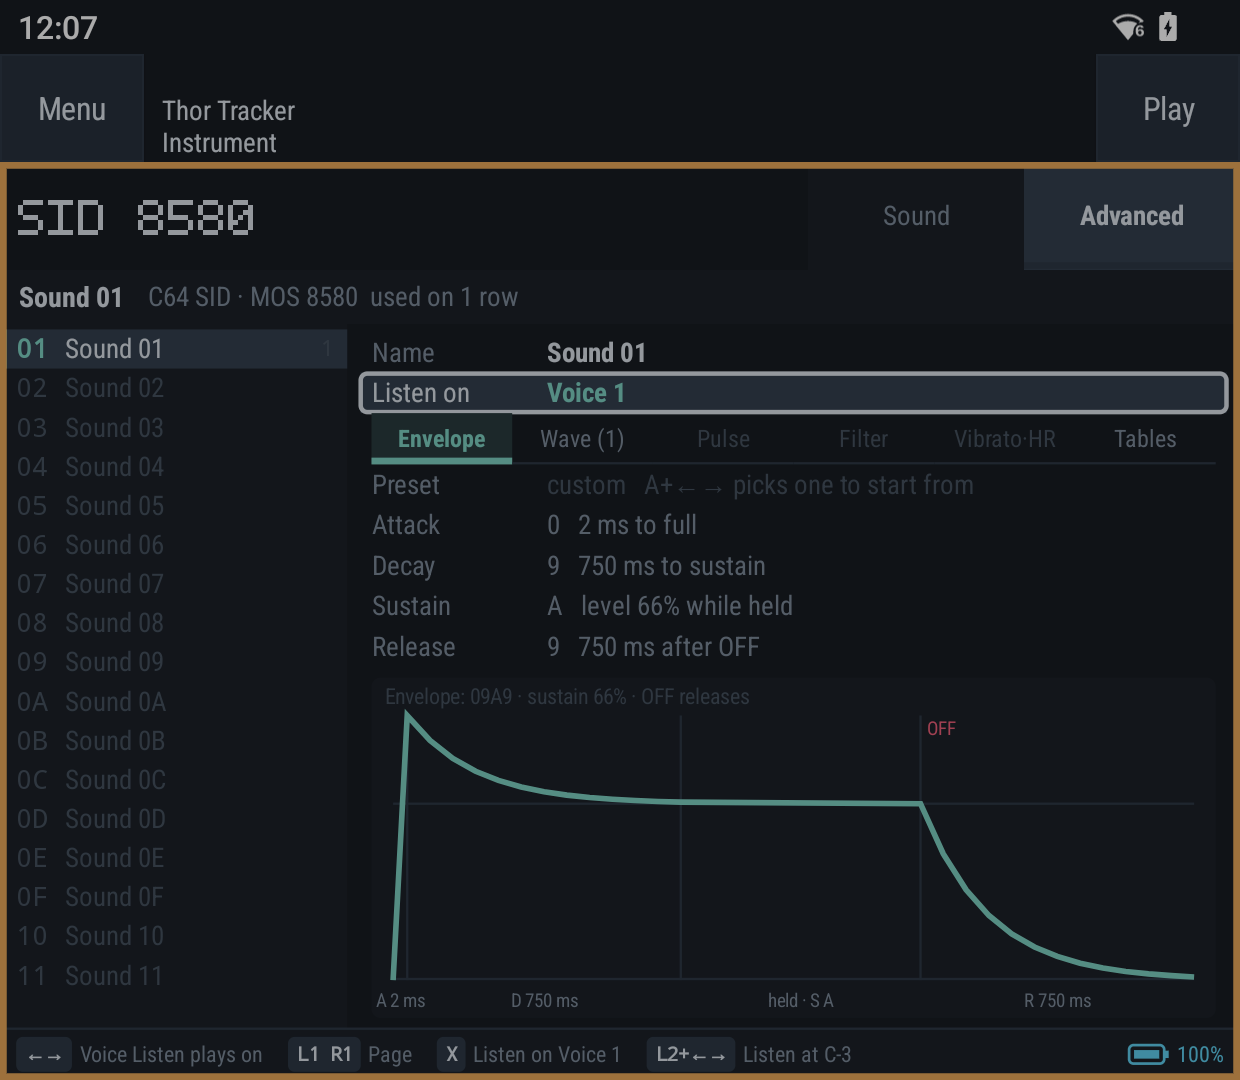
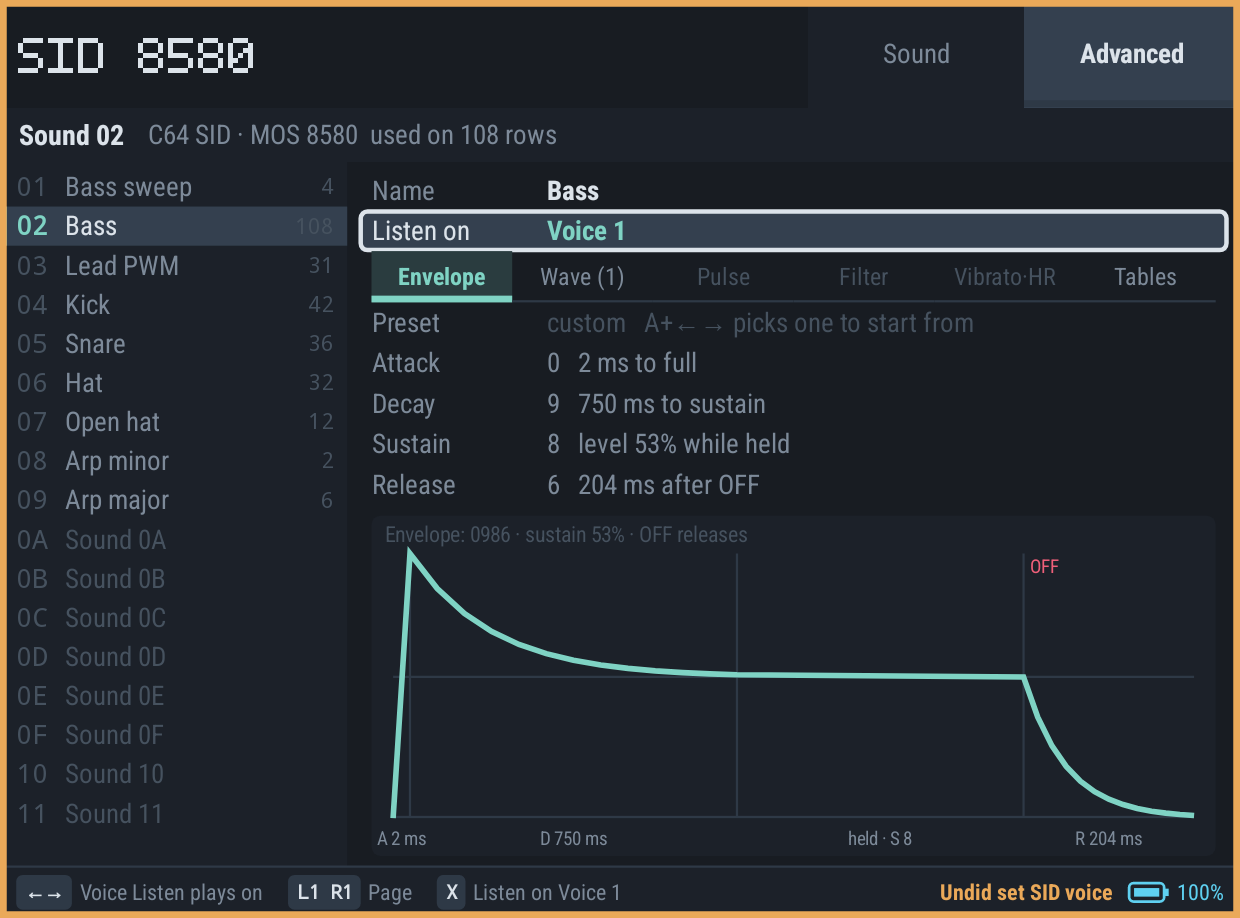
Document and illustrate verified pilot feedback revision

Changed region(s): [[0.0, 0.0, 1.0, 1.0], [0.8274, 0.61, 0.8581, 0.6405], [0.7355, 0.427, 0.7661, 0.4575]]

diff --git a/docs/INSTRUMENT_PANELS.md b/docs/INSTRUMENT_PANELS.md
@@ -1,9 +1,9 @@
 # Three musical instrument pilots
 
-**Review revision 2: 0.43.0/code 60. Stop here for joint review before adding more faces.**
+**Review revision 3: 0.43.0/code 61.** The three pilots have been reviewed; this revision
+applies the shared-list and navigation feedback before expanding to more chip families.
 The approved touch controls and first Game Boy Sound/Advanced workflow are on `main` in
-0.42.0. These redesigned Game Boy, C64 SID and Mega Drive YM2612 faces are a separate review
-workstream—not a commitment to roll the design across every backend yet.
+0.42.0. The redesigned Game Boy, C64 SID and Mega Drive YM2612 faces remain on the review branch.
 
 The APK remains **Thor Tracker**, package `org.thortracker`, with the production signing key.
 It updates the normal app rather than installing another similarly named app. The older
@@ -12,8 +12,8 @@ separate Touch Preview installation and its data are not removed or imported aut
 
 ## Review gallery
 
-Actual Pocket DMG screenshots from the final Android candidate; no recoloring or compositing.
-These show the built-in controller in use, so the touch dock is automatically hidden.
+Actual Pocket DMG native editor captures from revision 3; no recoloring or compositing.
+These render the live Activity's editor without Android system bars or transient system toasts.
 
 ### Game Boy
 
@@ -48,12 +48,17 @@ an instrument. A patch outside a musical control's recognized choices stays **Cu
 no invented slider position. Deliberate edits own only the fields listed below.
 
 - Touch: tap Sound/Advanced; move a control horizontally. Hold X to hear edits.
-- Controller: Up/Down selects a control; hold A + direction to adjust and audition; X listens.
-  The editor-mode row is above the slot row; Left/Right or A switches faces there.
+- Sound controller: **Up/Down selects the instrument slot; Left/Right cycles controls;
+  hold A + Left/Right to adjust.** New Sound views focus the first musical control. X listens.
+  The horizontal cycle also includes Name and Sound/Advanced: A switches faces on the mode
+  selector; on Name, A+Left/Right edits a letter and A+Up/Down moves the letter cursor.
+  Advanced retains its existing precise-editor navigation.
 - A continuous edit is one Undo. Mode/slot changes and Undo end stale pointer edits. A held
   across a mode change must be released before it can change a different control.
-- Small panes page controls and named slots rather than shrinking touch targets below 48 dp.
-  Larger panes show more controls together. Contrast uses the workspace's semantic colors.
+- The instrument list uses the same typography, geometry and hit targets in both faces;
+  machine-specific artwork stays in the sound-editing area. Small Sound panes page controls
+  at physical touch size rather than shrinking them. The list retains Advanced's existing
+  responsive layout. Contrast uses the workspace's semantic colors.
 - Mode/cursor state belongs to the pane for this session, not the musical project. There is
   no new project format, hidden macro bank, extra synthesis layer or export-only approximation.
 
@@ -136,7 +141,16 @@ Fold8 captures or physical two-thumb ergonomics evidence.
 Revision 2 fixes controller name navigation beyond SID's 16-character limit. Its regression
 fails before the fix and passes afterward; **1,188 core and 22 Android host tests pass**.
 Compact GB/FM coverage now requires touch navigation whenever controls are hidden.
-The gallery and native-audio measurements remain from code 59; musical mappings are unchanged.
+Revision 3 passes **1,206 core and 22 Android host tests**, plus a live Pocket DMG Activity
+scenario covering the requested axes, held edits, grouped Undo, touch mode switching and
+pixel-identical instrument lists in all six bank/model cases. All **30 permanent Android
+contracts** pass in a separate clean test APK. The gallery and six 360×270 dp native renders
+are refreshed; musical mappings and the earlier native-audio measurements are unchanged.
+
+Pattern channel headers now show the most frequently assigned instrument in that channel's
+active pattern rows, not the shared entry instrument. Empty assignments and hidden rows do
+not count; ties prefer the lowest slot. The live Activity check verifies distinct Pulse 1/2
+labels remain stable while choosing a different entry sound. This does not alter playback.
 
 **34 native WAVs** exercise envelopes, wave shifts/gates, noise width, SID PWM/shared filter and
 FM modulation/harmonics/feedback. The low GB noise fixture clocks at 146.286 Hz: its seven-bit
@@ -159,6 +173,15 @@ private recovery/workspace entries; its test APK and UUID-owned files are remove
 device settings restored. `/ThorTunez` is not touched. Builds are serialized and memory-capped;
 local Kotlin/Native linking and emulators are avoided.
 
-Review next: whether each face evokes its machine, whether its musical choices invite useful
-experimentation, and whether the visible-control density feels right. No additional chip faces,
-original synth, swing, mixer ceilings or shader pipeline are included in this review.
+## Wider rollout
+
+The reviewed direction is sufficient to proceed in chip-family batches. Carry the stable
+instrument list, controller axes, mode safety, touch ownership and Undo behavior into each
+face; do not force every chip into the same musical controls or recolor one universal form.
+
+Suggested order: NES and Sega PSG voices; AY/shared-envelope and wavetable families; then
+remaining FM families and the more specialized noise/percussion systems. Related voices
+can share control widgets and layout machinery, but each mapping must name its owned fields
+and shared-resource limits. Retain Custom patches and the exact Advanced editor throughout.
+Review each batch on handheld-sized panes before continuing. No additional chip faces,
+original synth, swing, mixer ceilings or shader pipeline are included in revision 3.

diff --git a/PLAN.md b/PLAN.md
@@ -13,11 +13,12 @@ The first backend is explicitly GB/hUGE. Backend extensibility means modular sof
 Sound families: Game Boy, NES + DPCM and expansions, C64 SID, OPL3, Mega Drive, Sega 8-bit, AY/YM computers and PC Engine. VRC6, VRC7, N163, Sunsoft 5B, FDS, MMC5 and EPSM extend the NES family.
 Order below is the current intent; design notes for the chip work live in `docs/BACKENDS.md`.
 
-**Current review (0.43.0/code 60, revision 2):** the approved touch dock and Game Boy Sound/Advanced workflow
-are on `main` in 0.42.0. The separate review branch implements **three artistic/musical pilots only**:
-Game Boy LCD (Pulse/Wave/Noise), C64 SID and Mega Drive YM2612. See
-[review gallery and musical mappings](docs/INSTRUMENT_PANELS.md). **Pause for joint review before
-expanding to other chips.** Distinct controls/faces share input/history and retain exact patches in Advanced.
+**Current review (0.43.0/code 61, revision 3):** the approved touch dock and Game Boy Sound/Advanced workflow
+are on `main` in 0.42.0. The three redesigned pilots—Game Boy LCD (Pulse/Wave/Noise), C64 SID and
+Mega Drive YM2612—have received positive review. This revision keeps the instrument list identical
+between faces and makes Sound's vertical axis select slots and horizontal axis select parameters.
+See [the refreshed gallery, mappings and wider rollout approach](docs/INSTRUMENT_PANELS.md).
+Expand in chip-family batches, preserving exact patches and the existing Advanced editors.
 **Galaxy Fold8** remains the phone target; DMG is a functional testbed, not physical-reach proof.
 
 SAA1099 is released as **0.34.0/code 47**, retaining VIC/TED and all earlier systems. Native/reference,
@@ -233,13 +234,18 @@ shared swing remain design proposals; pattern-local mute remains explicitly defe
   memorizing chords, distinguishing field-specific **Clear from Cut**, and phone thumb reach,
   dense menus and keyboard/insets. Help now explains Columns/hidden-FX markers and current
   shortcuts. Keep swing, mixer ceilings, pattern-local mute and shader pipelines deferred.
+  The latest playtest confirms a discoverability gap: unused effect capacity is not obvious
+  outside the Columns row, and the **Scale** button hides that broader pattern configuration.
+  `+n fx` warns about populated hidden columns, not unused available slots; improve this distinction
+  in a subsequent clarity pass rather than adding more effects or changing playback here.
 - **Korg DS-10 / DS-10+ and original synthesis** (updated 2026-11-10): longer-term direction is an original
   built-in synthesis backend with its own instruments and more playful panels, alongside the hardware
   backends. The approved first Game Boy Sound face edits real instruments alongside Advanced.
-  Next: a sparse green/black LCD redesign for all three GB banks, a distinct SID synth deck and
-  a YM2612 tone console; **stop after those three pilots for review**. Musical controls must own
-  explicit chip fields, preserve arbitrary patches on entry/mode changes, and expose shared-resource
-  limits honestly. The original synthesis engine remains deferred.
+  The GB LCD, SID synth deck and YM2612 tone console pilots have been reviewed positively.
+  Their shared list and spatial Sound navigation are corrected in revision 3; proceed toward
+  additional chip-family batches using the [rollout contract](docs/INSTRUMENT_PANELS.md#wider-rollout).
+  Musical controls must own explicit chip fields, preserve arbitrary patches on entry/mode changes,
+  and expose shared-resource limits honestly. The original synthesis engine remains deferred.
 - **BRIXEQ interface research** (2026-11-09): reviewed the [manual](https://github.com/boorch/brixeq-pak/blob/main/MANUAL.md)
   and read-only copies of the installed v1.9.0 Pak UI/launcher. Useful discussion candidates:
   - **Colour themes, released in 0.38.0/code 52:** original Slate, Paper and Contrast palettes,

diff --git a/docs/VERIFICATION.md b/docs/VERIFICATION.md
@@ -1,5 +1,42 @@
 # Thor Tracker verification — 2026-11-11
 
+## 0.43.0 review revision 3 — stable lists and spatial Sound navigation
+
+Review branch only; normal Thor Tracker identity, `org.thortracker`, **code 61** and the existing
+production certificate. No musical mapping, native engine, project schema or export changes.
+
+- Sound reuses each pilot's Advanced instrument list, including typography, responsive geometry
+  and hit testing. Themed artwork remains in the editing area.
+- Bare Up/Down selects slots; bare Left/Right cycles mode, name and musical parameters;
+  A+Left/Right edits. New Sound views focus their first control. Name caret motion is A+Up/Down;
+  precise Advanced navigation, audition and grouped Undo are retained.
+- Pattern channel labels use the most frequent explicit instrument in active pattern rows;
+  ties prefer the lowest slot, and empty channels omit the label. Counts are cached per pattern,
+  while instrument renames remain live. Entry selection and playback are unaffected.
+- **1,206 core JVM and 22 Android host tests pass**, no failures/errors/skips. Tests cover the
+  requested axes, name bounds, empty FM slot creation, Advanced navigation, shared-list drawing,
+  header ties, hidden rows, entry-pen independence and edit/Undo.
+- A production-signed **Pocket DMG Activity smoke passes** for GB Pulse/Wave/Noise, SID 6581/8580
+  and YM2612. Real key events exercise slot/parameter movement and held edits; one Undo restores
+  each patch. Touch switches modes, and full native RGBA comparisons prove identical slot-list
+  pixels and geometry between faces. Six native 360×270 dp renders cover compact layouts.
+  These are not Galaxy Fold8 physical-reach measurements.
+- The live Pattern scenario retains `[2,3,0,0]` instrument labels through real Instrument-view
+  selection and return, without changing the song.
+- A separate, clean instrumentation APK passes **all 30 permanent Android tests** on DMG.
+  Its native audio contract reports zero xruns/driver faults and maximum callback 3.080 ms;
+  this is not a new six-chip acoustic or long-session audio measurement.
+- All eight private recovery/workspace entries were cold-backed up, restored and independently
[1 lines of base64/hex data omitted]
+  The owned test APK and UUID directory were removed; the original 60000 ms timeout was restored
+  and DMG returned Home/asleep. `/ThorTunez` was untouched.
+
[1 lines of base64/hex data omitted]
+Evidence: `~/.local/state/thortracker/recovery-20261109/instrument-pilots-043/feedback-devices/`
+`dmg-feedback-9e3c1b3885be426982bf42fab4c08acf/`. The temporary harness initially enumerated beyond
+GB's 15 slots; it was corrected to use each bank's declared size, with cold restoration verified
+on the failed run as well. Source and builds remained serialized and memory-capped.
+
 ## 0.43.0 — three musical instrument review pilots
 
 Separate review branch; **not a broader chip-panel rollout**. Approved touch/GB functionality

diff --git a/README.md b/README.md
@@ -131,6 +131,12 @@ remains a separate control.
 
 The Pattern view is a four-channel hUGE grid (Pulse 1, Pulse 2, Wave, Noise) with an inspector that explains the selected note, sound or effect. Hold A and use the D-pad to change a value, or put the Keyboard on the other screen in **Write** mode. Each press writes a note at the pattern cursor and moves down a row. Both screens edit the same song, and the order list beside the grid shows where you are.
 
+When space permits, a channel header names the instrument assigned most often in that channel's
+current pattern—not the instrument selected for entering new notes. Only active pattern rows
+and explicit instrument assignments count; empty channels have no instrument label, and ties
+prefer the lowest slot number. Choosing a different entry sound therefore leaves other channel
+headers alone.
+
 ### Song view: arrangement, loop point and parked orders
 
 <img src="docs/media/song-view-parked-order.png" width="620" alt="Song view showing title, artist, ticks per row (about 149 BPM), loop point at order 01 marked with a loop arrow, and order 03 dimmed and labelled Parked, with the order command row Repeat, New, Clone, Delete, Earlier, Later, Loop here, Unpark">
